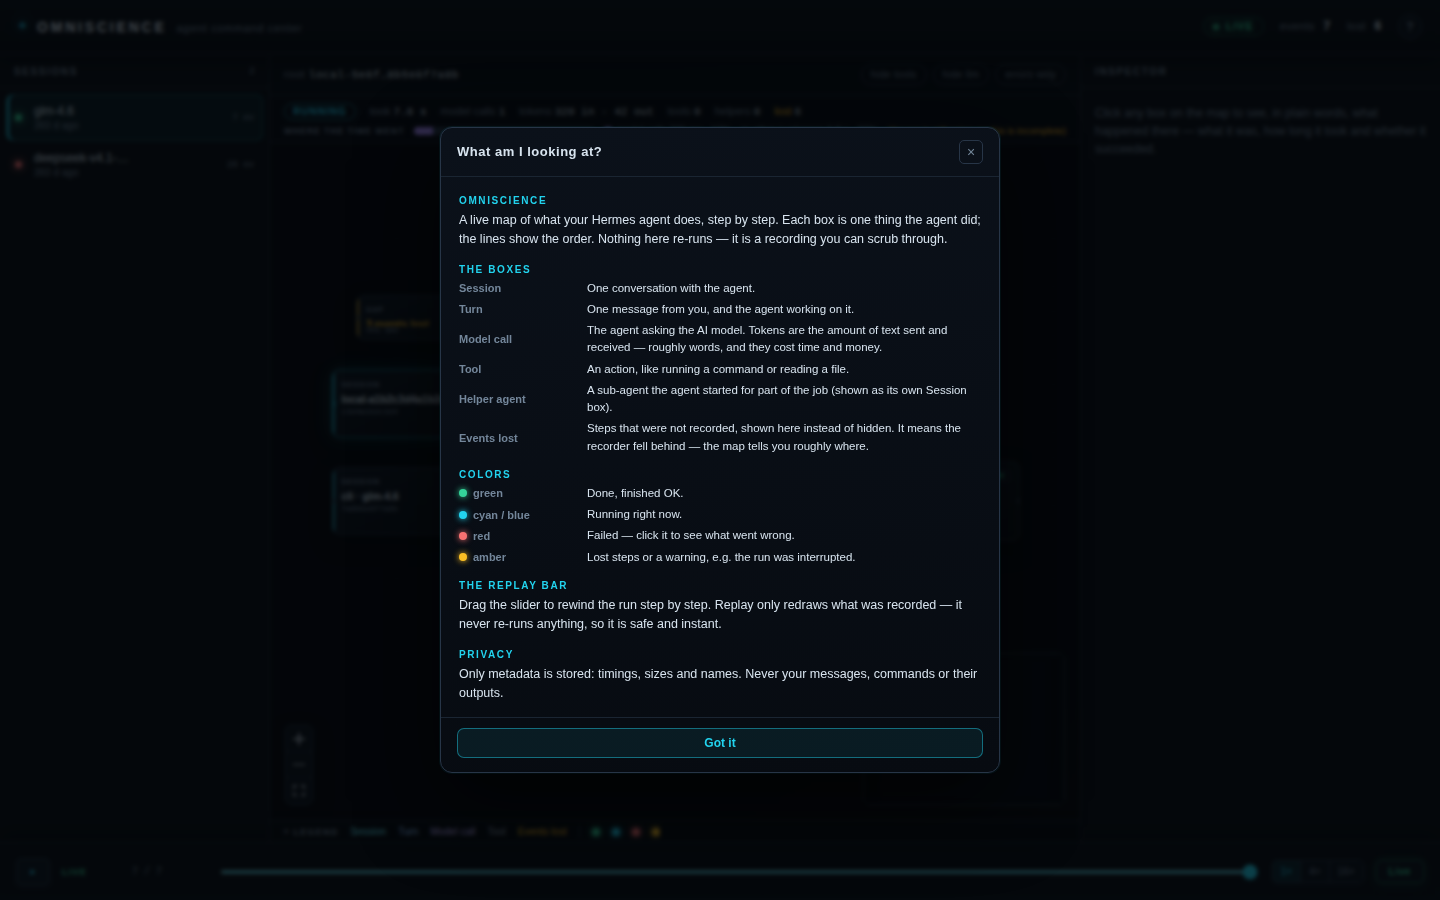
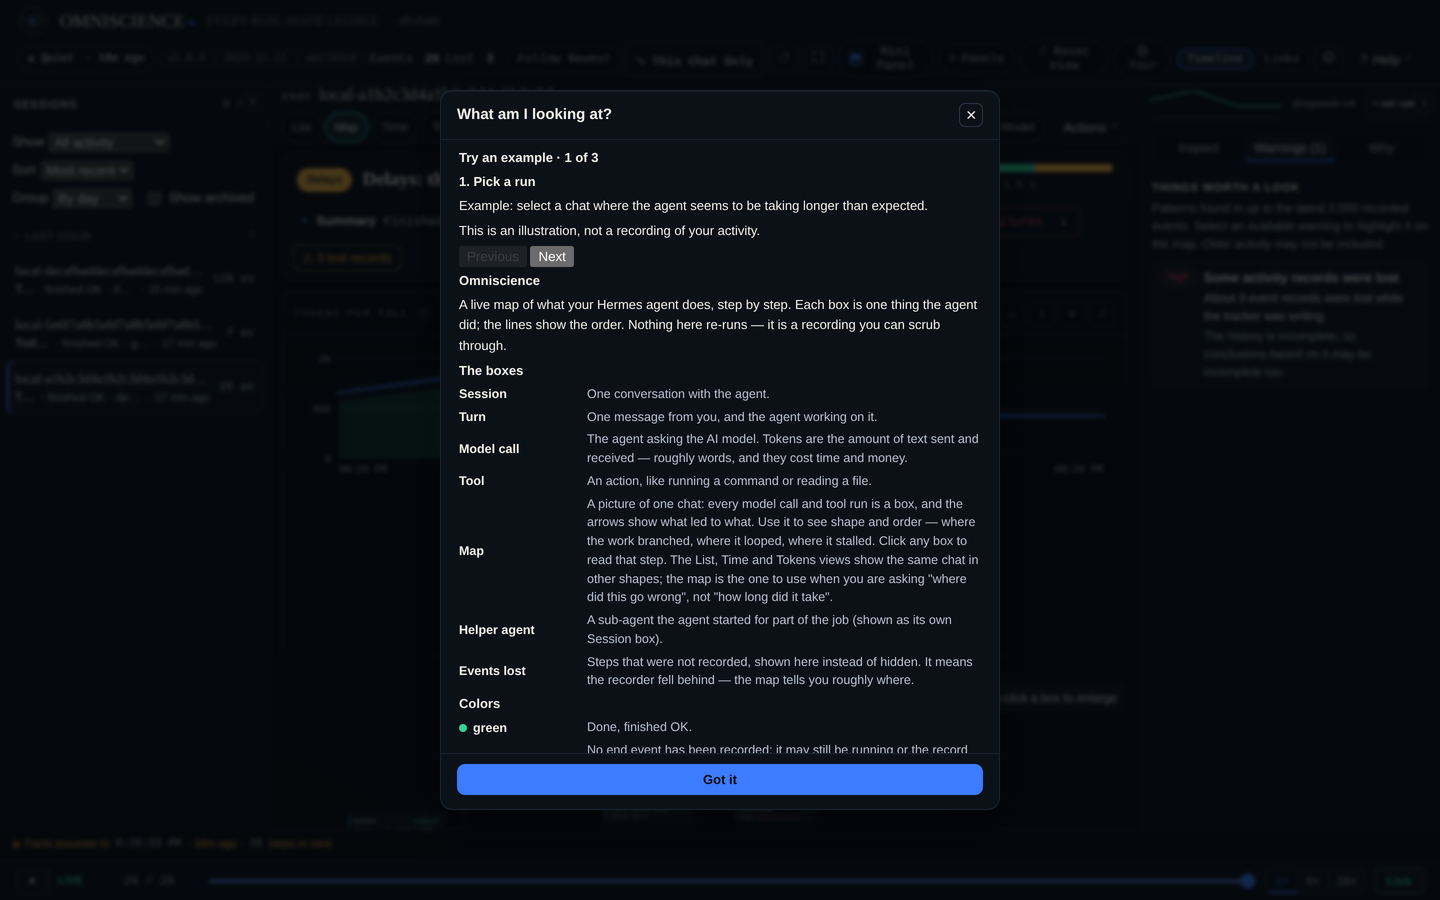
docs: current screenshots and refreshed window map

diff --git a/docs/DOC-INDEX.md b/docs/DOC-INDEX.md
@@ -1,6 +1,6 @@
 # Documentation index
 
-Every guide below describes **Omniscience 1.0.0** (commit f2109ab). The date on each row is
+Every guide below describes **Omniscience 1.0.0** (commit aec782c). The date on each row is
 the last time its body changed; a row reading *behind* means the file was edited without being
 restamped, and `python3 scripts/docs-stamp.py --check` treats that as an error.
 
@@ -9,35 +9,35 @@ Regenerate this page with `python3 scripts/docs-stamp.py --index`. Generated 202
 | Document | Title | What it covers | Revised | State |
 |---|---|---|---|---|
 | [ARCHITECTURE](ARCHITECTURE.md) | Architecture | Components, data flow, the event store and the viewer | 2026-11-11 | current |
-| [BUG-LOG](BUG-LOG.md) | Defect log |  | 2026-11-09 | current |
-| [CONFIGURATION](CONFIGURATION.md) | Configuration |  | 2026-11-11 | current |
+| [BUG-LOG](BUG-LOG.md) | Defect log | Known defects and examined non-defects | 2026-11-09 | current |
+| [CONFIGURATION](CONFIGURATION.md) | Configuration | Every environment variable and stored setting | 2026-11-11 | current |
 | [COVERAGE](COVERAGE.md) | What Omniscience can and can't see | Which Hermes hooks are subscribed to, and what is deliberately not seen | 2026-11-11 | current |
 | [DECISIONS](DECISIONS.md) | Decisions | The decisions that shaped the design, with the reasoning | 2026-11-11 | current |
 | [DEMO](DEMO.md) | Demo video script (90 seconds) | The 90-second demo script and the shots it needs | 2026-11-09 | current |
-| [DEVELOPMENT](DEVELOPMENT.md) | Development |  | 2026-11-11 | current |
+| [DEVELOPMENT](DEVELOPMENT.md) | Development | Repository layout, suites, CI and documentation stamps | 2026-11-11 | current |
 | [FAQ](FAQ.md) | FAQ | Short answers to the questions that come up first | 2026-11-11 | current |
 | [HERMES_INTEGRATION](HERMES_INTEGRATION.md) | Hermes Integration — verified hooks, payloads, limitations | Verified hook payloads and Hermes version compatibility | 2026-11-11 | current |
 | [INSTALL](INSTALL.md) | Install & operate Hermes Omniscience | Install, run, upgrade and remove the plugin | 2026-11-11 | current |
-| [README](README.md) | Omniscience documentation | What the plugin is, how to install it, what it looks like | 2026-11-11 | current |
-| [REFERENCE](REFERENCE.md) | Reference |  | 2026-11-11 | current |
+| [README](README.md) | Omniscience documentation | Index of every guide in `docs/` | 2026-11-11 | current |
+| [REFERENCE](REFERENCE.md) | Reference | Hooks, event kinds, routes, CLI, rules and config keys | 2026-11-11 | current |
 | [ROADMAP](ROADMAP.md) | Roadmap | What is built, what is next, what is parked | 2026-11-11 | current |
-| [SECURITY-AUDIT](SECURITY-AUDIT.md) | Security audit — module by module |  | 2026-11-11 | current |
+| [SECURITY-AUDIT](SECURITY-AUDIT.md) | Security audit — module by module | A module-by-module security audit | 2026-11-11 | current |
 | [SECURITY](SECURITY.md) | Security — threat model, collection policy, privacy | Threat model, collection policy, what leaves the machine | 2026-11-11 | current |
-| [TROUBLESHOOTING](TROUBLESHOOTING.md) | Troubleshooting |  | 2026-11-11 | current |
-| [UI-GUIDE](UI-GUIDE.md) | Omniscience — a guide to the screen |  | 2026-11-10 | current |
-| [USAGE](USAGE.md) | Usage |  | 2026-11-11 | current |
+| [TROUBLESHOOTING](TROUBLESHOOTING.md) | Troubleshooting | Real failure modes and what to do | 2026-11-11 | current |
+| [UI-GUIDE](UI-GUIDE.md) | Omniscience — a guide to the screen | A guide to every control on the screen | 2026-11-10 | current |
+| [USAGE](USAGE.md) | Usage | A walkthrough of the viewer and `/omni` | 2026-11-11 | current |
 | [USER-GUIDE](USER-GUIDE.md) | Omniscience — User Guide | How to read the viewer: views, colours, timings, exports | 2026-11-11 | current |
 | [VERSIONING](VERSIONING.md) | Versioning and documentation currency | The version scheme, the build stamp, and the documentation currency rule | 2026-11-11 | current |
-| [PERFORMANCE_TUNING](PERFORMANCE_TUNING.md) | Omniscience Performance Tuning — Completed Changes |  | 2026-11-11 | current |
-| [PREVENT_POLLING_REGRESSION](PREVENT_POLLING_REGRESSION.md) | Omniscience Polling Regression — Prevention Checklist |  | 2026-11-11 | current |
-| [REGRESSION_TESTING](REGRESSION_TESTING.md) | Omniscience Viewer — Regression Testing & Performance Requirements |  | 2026-11-11 | current |
+| [PERFORMANCE_TUNING](dev/PERFORMANCE_TUNING.md) | Omniscience Performance Tuning — Completed Changes | Performance work and measured results | 2026-11-11 | current |
+| [PREVENT_POLLING_REGRESSION](dev/PREVENT_POLLING_REGRESSION.md) | Omniscience Polling Regression — Prevention Checklist | The polling-interval guard and why it exists | 2026-11-11 | current |
+| [REGRESSION_TESTING](dev/REGRESSION_TESTING.md) | Omniscience Viewer — Regression Testing & Performance Requirements | Regression and performance requirements | 2026-11-11 | current |
 
 ## How the stamp works
 
 Each document opens with the build it was written against and a hash of its own body:
 
 ```
-> **Applies to:** Omniscience 1.0.0 · commit f2109ab
+> **Applies to:** Omniscience 1.0.0 · commit aec782c
 > **Revised:** <date the body last changed> · **Body hash:** <first 8 hex of sha256(body)>
 ```
 

diff --git a/TESTING.md b/TESTING.md
@@ -36,8 +36,8 @@ local measurement here.
 
 | Suite | What it covers | Command | Result at this commit |
 |---|---|---|---|
-| Python | Plugin hooks and sanitizers, store and writer, viewer REST/WS, contract and e2e tests, QA core, docs currency | `PYTHONPATH=viewer python3 -m pytest tests -q -p no:cacheprovider` | **805 passed**, 1 warning in 100.83 s |
-| Front end | Graph reduction, views, panels, help layer, privacy and problem state (vitest) | `cd web && npm test` | **56 files passed**, **595 tests passed** in 24.61 s |
+| Python | Plugin hooks and sanitizers, store and writer, viewer REST/WS, contract and e2e tests, QA core, docs currency | `PYTHONPATH=viewer python3 -m pytest tests -q -p no:cacheprovider` | **805 passed**, 1 warning in 77.72 s |
+| Front end | Graph reduction, views, panels, help layer, privacy and problem state (vitest) | `cd web && npm test` | **56 files passed**, **595 tests passed** in 22.09 s |
 | Total | | | **1400 passed** |
 
 Environment for the counts above: Linux, Python 3.13.13, Node 26.5.1, 2026-11-11. The Python
@@ -46,7 +46,7 @@ suite contains no skips or expected failures in that run.
 Exact final lines:
 
 ```text
-805 passed, 1 warning in 100.83s (0:01:40)
+805 passed, 1 warning in 77.72s (0:01:17)
 ```
 
 ```text

diff --git a/docs/USAGE.md b/docs/USAGE.md
@@ -1,7 +1,8 @@
 # Usage
 
-> **Applies to:** Omniscience 1.0.0 · written at commit f2109ab
-> **Revised:** 2026-11-11 · **Body hash:** 8a4b27ff
+> **Applies to:** Omniscience 1.0.0 · written at commit aec782c
+> **Revised:** 2026-11-11 · **Body hash:** 38a1831e
+
 
 
 A short walkthrough of the viewer and the `/omni` command. For the full reading guide, including
@@ -114,6 +115,14 @@ locally, the reply includes a link to the exact chat or usage period.
 - **Actions → Bundle** builds a redacted JSON problem bundle. You see the exact object in a preview
   before anything is written; identifiers are replaced with synthetic ones and timestamps become
   offsets.
+
+## Help on screen
+
+![What am I looking at](img/help.png)
+
+**Help → What Am I Looking At?** explains every box, colour and control, with worked examples. **Help
+→ Take the Tour** walks five stops in about 30 seconds and resets the layout to its defaults first.
+Tooltips appear on hover or keyboard focus, and `?` opens the help sheet.
 
 ## The dashboard tab
 

diff --git a/docs/README.md b/docs/README.md
@@ -1,7 +1,8 @@
 # Omniscience documentation
 
-> **Applies to:** Omniscience 1.0.0 · written at commit f2109ab
-> **Revised:** 2026-11-11 · **Body hash:** 0d57cf14
+> **Applies to:** Omniscience 1.0.0 · written at commit aec782c
+> **Revised:** 2026-11-11 · **Body hash:** e5d4b925
+
 
 
 The index of every guide in this folder. Start with [INSTALL](INSTALL.md) if you are installing,
@@ -19,6 +20,7 @@ or [USAGE](USAGE.md) if you already have a recording and want to read it.
 | [TROUBLESHOOTING](TROUBLESHOOTING.md) | Something is not working |
 | [CONFIGURATION](CONFIGURATION.md) | You need an environment variable or stored setting |
 | [REFERENCE](REFERENCE.md) | You need hooks, event kinds, routes, CLI flags or rule thresholds |
+| [DEVELOPMENT](DEVELOPMENT.md) | You are changing the code, tests or docs stamps |
 
 ## How it works, and what it stores
 

diff --git a/README.md b/README.md
@@ -140,6 +140,7 @@ Named modules: `__init__.py`, `sanitize.py`, `store.py`, `schema.py` for recordi
 | [docs/ARCHITECTURE.md](docs/ARCHITECTURE.md) | Components, data flow, event contract, on-disk data |
 | [docs/INSTALL.md](docs/INSTALL.md) | Install, upgrade, uninstall, viewer flags |
 | [docs/CONFIGURATION.md](docs/CONFIGURATION.md) | Every environment variable and stored setting |
+| [docs/DEVELOPMENT.md](docs/DEVELOPMENT.md) | Repository layout, suites, CI and documentation stamps |
 | [docs/USAGE.md](docs/USAGE.md) | A walkthrough of the viewer and the `/omni` command |
 | [docs/REFERENCE.md](docs/REFERENCE.md) | Hooks, events, HTTP routes, CLI, rules and config keys |
 | [docs/TROUBLESHOOTING.md](docs/TROUBLESHOOTING.md) | Real failure modes and what to do |
